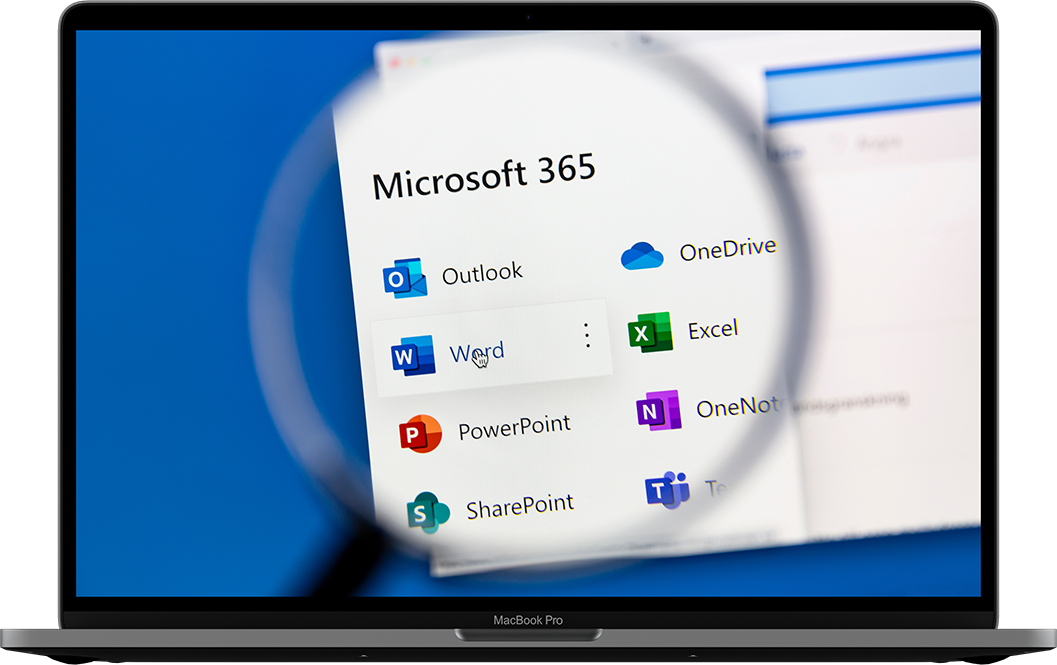
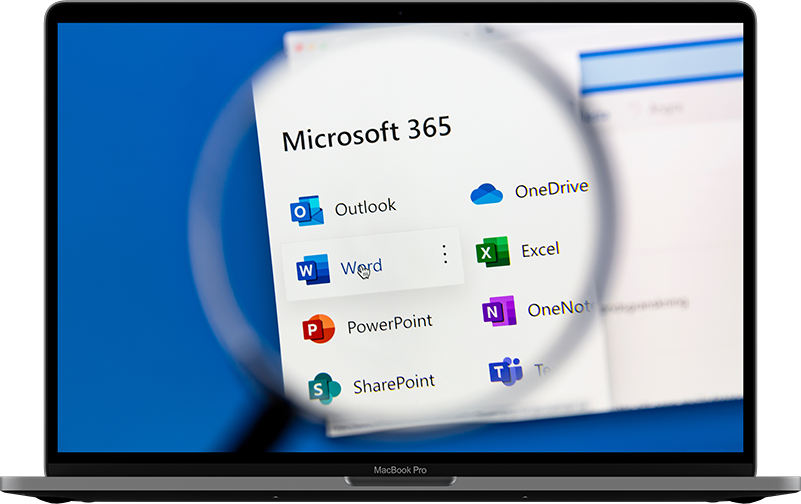
Improve laptop image and sections spacing
- Reduce laptop image size so that it does not dominate the page/section
- Fix spacing issues that were introduced when we copy-pasted from different templates
- Also fixes a typo noticed in a previous PR

diff --git a/website/src/index.html b/website/src/index.html
@@ -173,12 +173,12 @@
 
             <div class="container md:mt-24 mt-16">
                 <div class="container lg mx-auto">
-                    <div class="grid grid-cols-1 pb-8 text-center wow animate__animated animate__fadeInUp">
+                    <div class="grid grid-cols-1 pb-2 text-center wow animate__animated animate__fadeInUp">
                         <h3 class="mb-6 mt-8 md:text-4xl text-3xl md:leading-normal leading-normal font-bold">Why Everyone <span class="after:absolute after:right-0 after:left-0 after:bottom-1 after:lg:h-3 after:h-2 after:w-auto after:rounded-md after:bg-indigo-600/30 relative text-indigo-600">Loves</span> Corso</h3>
                     </div><!--end grid-->
                 </div><!--end container-->
 
-                <div class="grid md:grid-cols-2 grid-cols-1 items-center mt-8 gap-[30px]">
+                <div class="grid md:grid-cols-2 grid-cols-1 items-center gap-[30px]">
                     <div class="relative wow animate__animated animate__fadeInLeft" data-wow-delay=".3s">
                         <img src="assets/images/why/chat.svg" class="rounded-lg" alt="">
                         <div class="overflow-hidden absolute lg:h-[400px] h-[320px] lg:w-[400px] w-[320px] bg-indigo-600/5 bottom-0 left-0 rotate-45 -z-1 rounded-3xl"></div>
@@ -266,7 +266,7 @@
                 </div>
             </div><!--end container-->
 
-            <div class="container md:mt-24 mt-16 wow animate__animated animate__fadeInUp">
+            <div class="container md:mb-8 mb-4 md:mt-24 mt-16 wow animate__animated animate__fadeInUp">
                 <div class="grid grid-cols-1 pb-8 text-center">
                     <h3 class="mb-6 mt-8 md:text-4xl text-3xl md:leading-normal leading-normal font-bold">Frequently Asked Questions</h3>
                 </div><!--end grid-->
@@ -373,7 +373,7 @@
                                 </h2>
                                 <div id="accordion-collapse-body-6" class="hidden" aria-labelledby="accordion-collapse-heading-6">
                                     <div class="p-5">
-                                        <p class="text-slate-400 dark:text-gray-400">You can request new features by create a <a href="https://github.com/alcionai/corso/issues" class="text-indigo-600" target="_blank">new GitHub issue</a> and labeling it as an enhancement.</p>
+                                        <p class="text-slate-400 dark:text-gray-400">You can request new features by creating a <a href="https://github.com/alcionai/corso/issues" class="text-indigo-600" target="_blank">new GitHub issue</a> and labeling it as an enhancement.</p>
                                     </div>
                                 </div>
                             </div>
@@ -385,16 +385,16 @@
         <!-- End Section-->
 
         <!-- Start -->
-        <section class="relative md:py-24 py-16 md:pt-0 pt-0">
+        <section class="relative md:py-16 py-12 md:pt-0 pt-0">
             <div class="container">
                 <div class="grid grid-cols-1 justify-center wow animate__animated animate__fadeInUp" data-wow-delay=".1s">
                     <div class="relative z-1">
                         <div class="grid grid-cols-1 md:text-left text-center justify-center">
                             <div class="relative">
-                                <img src="assets/images/laptop-macbook.png" alt="">
+                                <img src="assets/images/laptop-macbook.png" class ="mx-auto" alt="Laptop image showing Microsoft 365 icons">
                             </div>
                         </div>
-                        <div class="content md:mt-8">
+                        <div class="content md:mt-0">
                             <div class="grid lg:grid-cols-12 grid-cols-1 md:text-left text-center justify-center">
                                 <div class="lg:col-start-2 lg:col-span-10">
                                     <div class="grid md:grid-cols-2 grid-cols-1 items-center">
